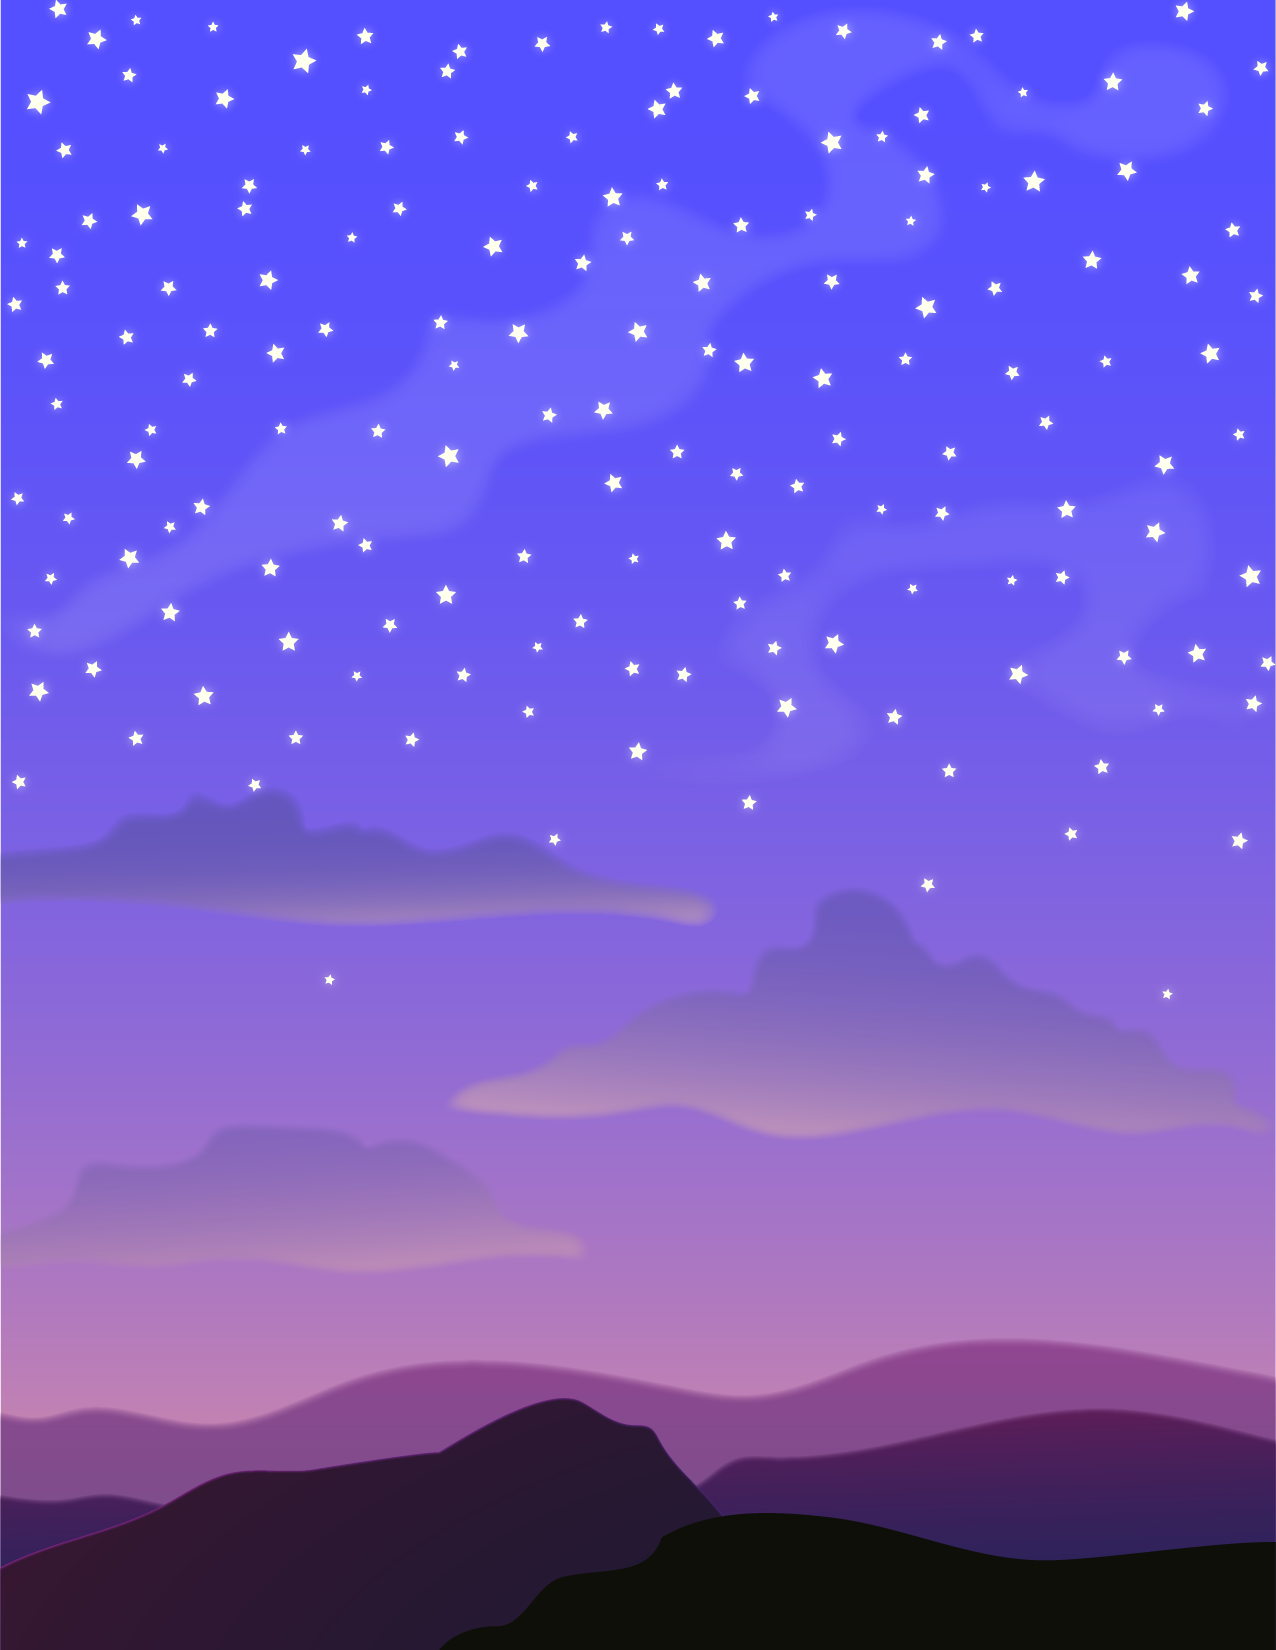
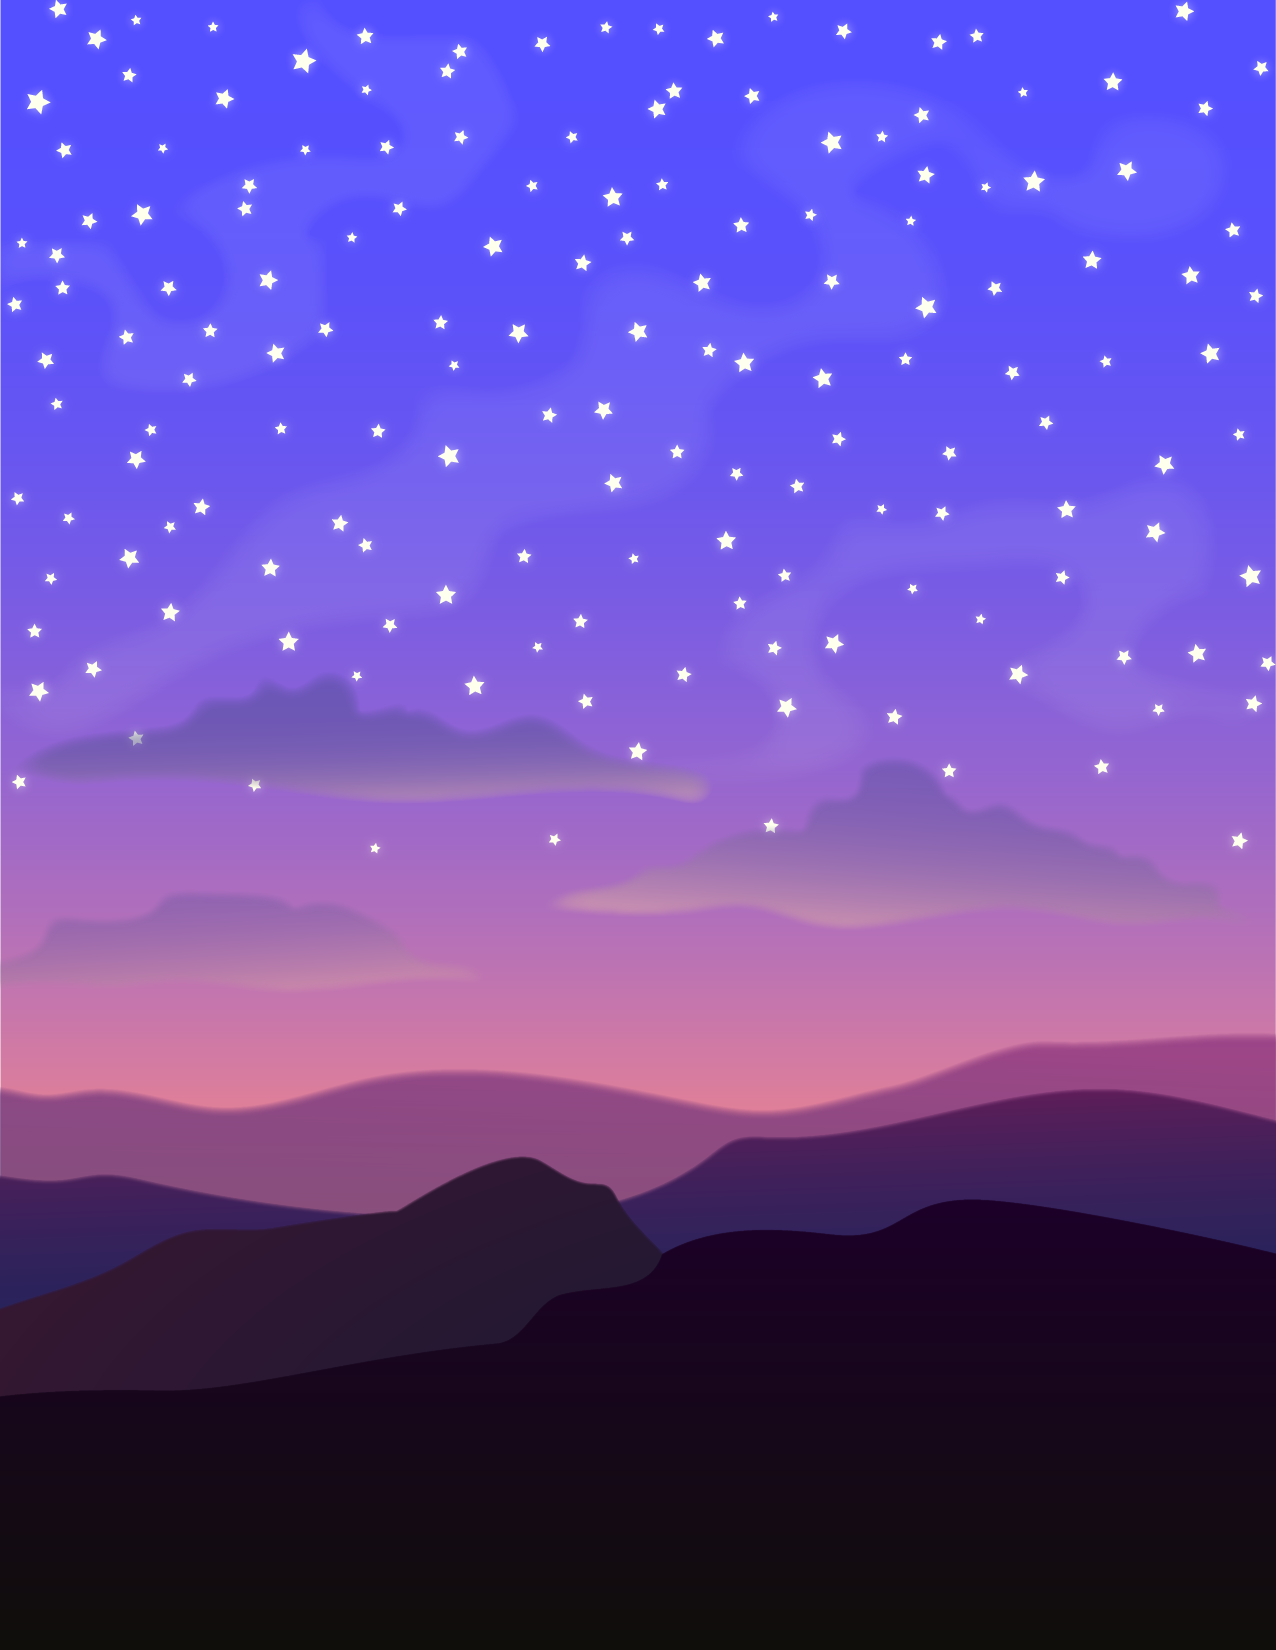
Update background image

diff --git a/style.css b/style.css
@@ -2,21 +2,33 @@ body {
 	margin-top: 2%;
 	margin-left: 12.5%;
 	margin-right: 12.5%;
-	font-family: 'Palatino Linotype', 'Georgia', 'Times New Roman', serif;
-	font-size: larger;
+	font-family: 'Lato', 'Arial', serif;
+
 	background-image: url("images/websiteBG.png");
-	background-size:     cover; 
-	background-repeat:   no-repeat;
-    background-position: center top;
+	background-size: cover; 
+	background-repeat: no-repeat;
+    background-position: center;
     overflow: scroll;
-    height: 2000px;
-    width: 1276px;
+    height: 1650px;
+
+
 	
 }
 
 div {
 	margin-top: 1em;
 }
+
+#title {
+	margin: 0 auto;
+	color: white;
+	font-size: 400%;
+	text-align: center;
+	background-color:rgba(255, 255, 255, 0.5);
+	border-radius: 15px;
+	/*box-shadow: 8px 8px 8px rgba(255, 255, 255, 0.5);*/
+}
+
 
 a {
 	outline: 0;
@@ -25,6 +37,7 @@ a {
 
 .header {
 	margin: 0 auto;
+
 	text-align: center;
 }
 

diff --git a/index.html b/index.html
@@ -11,15 +11,21 @@
 	-->
 	</head>
 	<body>
-
-		hi
+		<div id='title'>
+			Welcome to my page
+		</div>
+		<div>
+			This is another paragraph
+		</div>
 		<!--
-		<div class='header'>
-			<a href='http://mikef.org/'>
-				<img id='myavatar' alt='Michael Fairchild' src='images/avatars/2015_BodegaHead_512.jpg' title='Shira.  Bodega Head, CA, 2015.'>
+		<div class='mainTitle'>	
+			<a href='http://shikicat.com/'>
+			<img id='myavatar' alt='Michael Fairchild' src='images/avatars/2015_BodegaHead_512.jpg' title='Shira.  Bodega Head, CA, 2015.'> 
 			</a>
 		</div>
-	
+		-->	
+
+		<!--	
 		<div>
 			This is the website of <span id='myname'>Michael J. Fairchild</span>.  I live with my wife <a href='shira/Welcome.html'>Shira</a> in Charlotte, NC, where I currently work at a bank, having previously been a postdoctoral researcher at <a href='https://www.princeton.edu'>Princeton University</a>.
 		</div>
